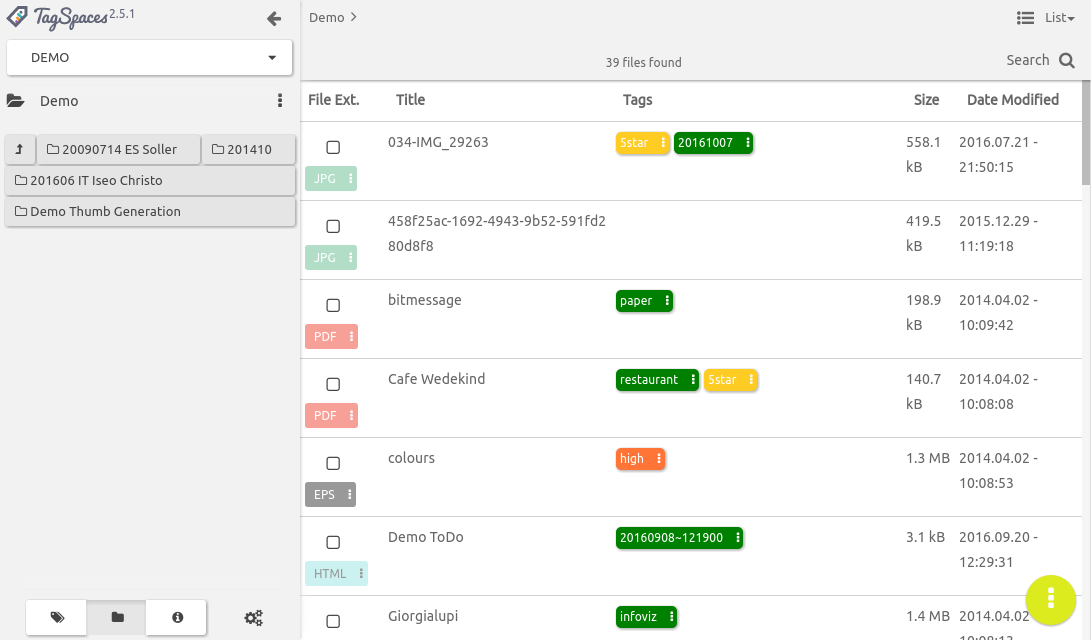
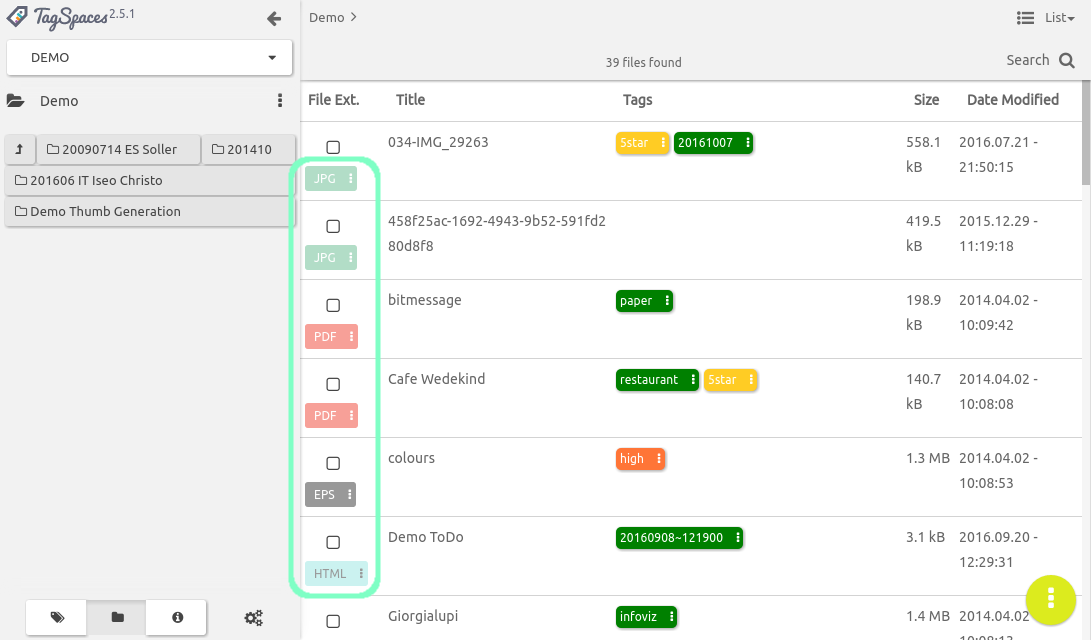
browsing-files.md ready for review

Changed region(s): [[0.2493, 0.2188, 0.374, 0.9375]]

diff --git a/styles/website.css b/styles/website.css
@@ -17,3 +17,15 @@ video, img {
     padding-right: 5px;
     margin-right: 5px;
 }
+
+.inline_image img{
+
+    box-shadow: none !important;
+    margin-left: 5px;
+    margin-right: 5px;
+    display:inline;
+    max-height: 40px;
+    margin-top:0;
+    margin-bottom:0;
+
+}

diff --git a/browsing-files.md b/browsing-files.md
@@ -1,6 +1,6 @@
 # Browsing Your Files
 
-When you navigate to a folder in your active location, the files contained in the selected folder will be displayed on the main file browsing area of the user interface. TagSpaces offers flexible, configurable views to display your files. These views are called **perspectives**.
+When you navigate to a folder in your active location, the files contained in the selected folder will be displayed on the main file browsing area of the user interface. TagSpaces offers flexible views to display your files. These views are called **perspectives**.
 
 ## Perspectives overview
 
@@ -9,91 +9,239 @@ Perspectives are not an integral part of TagSpaces, but exist as modular extensi
 * [List Perspective](extensions/perspectiveList.html) - Presenting your files as list, optimized for simple file management.
 
 
-* [Grid Perspective](extensions/perspectiveGrid.html) - Presenting your files as grid of thumbnails, if enabled. Unlike other perspectives, the grid can also display folders.
+* [Grid Perspective](extensions/perspectiveGrid.html) - Presenting your files as grid of thumbnails, if enabled. Unlike the List Perspective, the grid can also display folders.
 
 
-* [ImageSwiper Perspective](extensions/perspectiveImageSwiper.html) - A perspective optimized for browsing and viewing image files. Use this for your photo or image folders.
+* [ImageSwiper Perspective](extensions/perspectiveImageSwiper.html) - A perspective optimized for browsing and viewing image files. Best used with photo or image folders.
 
 
-* [FolderViz Perspective](extensions/perspectiveGraph.html) - This is experimental perspective which applies some information visualization concepts to presenting your folder and file structures.
+* [FolderViz Perspective](extensions/perspectiveGraph.html) - This is an experimental perspective which applies some information visualization concepts to presenting your folder and file structures.
 
+## Choosing a perspective
 
 ## List perspective
 
-The most common way of presenting files in a folder, is the list format. In the list perspective, all files are represented as rows of a list, just like ou woudl find in most file browsing applications.
+The most common way of presenting files in a folder is in a list format. In the **List Perspective** files are represented as rows of a list, similar to the default view of most file browsing applications.
 
-***IMAGE***
-
-Each row is broken down into columns, which give information about the files in quetson. The columns, from left to right are:
-
-* **File extension**  -  A color coded icon, representing the file type. (Scroll down to [Common features -> Color coded file extensions](#color-coded-file-extensions) to learn more about this feature.) Underneath the file extension icon, there is also a checkbox, which can be used to easily select one or more files. This also mean, that  `Ctrl or Shift + click` will **not** work for selecting multiple files.
+![](/media/list-perspective-2.png)
 
 
-* **Title** - The file's title is basically the filename sans the extension or any tag information. By default, TagSpaces stores tags as part of the filename. To learn more about how this is achieved, see the [*Tagging*](tagging.md) section.
+Each row of the list consists of columns, which give specific information about the files. The column names can be found in the header row, at the top of the list.
+
+![](/media/list-perspective-column-headers.png)
 
 
-* **Tags** - All the tags that are applied to the file will appear here, with the right background and font color. To learn more about tag colors, refer to the [*User interface -> Tag Library](userinterface.md#tag-library) section.
+The columns, from left to right are:
+
+* **File extension**  -  A color coded icon, representing the file type. Scroll down to [Common features -> Color coded file extensions](#color-coded-file-extensions) to learn more about this feature.
+
+    Underneath the file extension icon, there is also a checkbox, which can be used to easily select one or more files. This also means that `Ctrl or Shift + click` will **not** work for selecting multiple files in the current version of TagSpaces, although this functionality is planned for a future release.
 
 
-* **Size** - This is the file size, represented in a human readable format.
+* **Title** - The file's title is the filename without the extension or any tag information. By default, TagSpaces stores tags as part of the filename. To learn more about how this is achieved, see the [Tagging](tagging.md) section.
+
+
+* **Tags** - All the tags that are applied to the file will appear here, with the right background and font color. To learn more about tag colors, refer to the [User interface -> Tag Library](userinterface.md#tag-library) section.
+
+
+* **Size** - This is the file size in a human readable format.
 
 
 * **Date modified** - The time the file had been last modified, in a format of `YYYY.MM.DD-hh:mm:ss`
 
-> **Hint:** To change the list oreder, you can click the list column headers. Each header offers biderectional sorting, although there is currently no indicator of either the direction, or the active sorting mode.
+To change the list order, you can click the list column headers. For example if you want to sort the list alphabetically by name *(A-Z)*, click on the name. To change the direction of the sorting *(Z-A)*, click on the name again. Each header offers bidirectional sorting based on its column's contents.
 
-**IMAGE** (with list header closeup, and highlighted)
+>**Hint:** Although there is currently no indicator of either the direction, or the active sorting mode, this feature will be added in a future release of TagSpaces.
 
 
 ### List overflow menu options
 
 The **Floating Action Button** (FAB) at the bottom right corner, hides a contextual overflow menu applicable for the currently active perspective. The List perspective offers its own set of options, that will allow you to manage the list of files in certain ways.
 
-***IMAGE***
+![](/media/list-perspective-overflow.png)
 
-* **Toggle Select All Files** will mark every file on the list as selected.
-
-
-* **Add/Remove tags** will allow you to manage tags on selected files (only available when there is an active selection, works on multiple files simultaneously). To learn more about how this feature works, refer to the [Tagging -> Tagging using context menus](tagging.md/tagging-using-context-menus) section.
+* **Toggle Select All Files** will mark every file on the list as selected or unselected.
 
 
-* **Copy/move files** will allow you to copy or move one or more selected files (only available when there is an active selection, works on multiple files simultaneously). Selecting this option will present you wit the Move or Copy File(s) dialog. After specifying the target director, which can be anywhere on the filesystem, even outside your connected locations, you can choose to move or copy them by pressing the right button.
-
-***IMAGE***
-
-* **Delete files** will allow you to delete the files or files selected (only available when there is an active selection, works on multiple files simultaneously).
+* **Add/Remove tags**  will allow you to manage tags on selected files. (This options is only available when there is an active selection, and works on multiple files simultaneously.) To learn more about how tagging works, refer to the [Tagging -> Tagging using context menus](tagging.md/tagging-using-context-menus) section.
 
 
-* **Show subfolders content** - If you don1t care about folder structure, or do not know where in the hierarchy you would find a necessary file, you can turn this option on, to show every file from all subfolders, recursively, starting from your current directory. The list will display all files in order, without any indication of their actual locations.
+* **Copy/move files** will allow you to copy or move one or more selected files. (This option is only available when there is an active selection, and works on multiple files simultaneously.) Selecting this option will present you with the **Move or Copy File(s)** dialog. After specifying the target directory (which can be anywhere on the file system, even outside your connected locations), you can choose to move or copy the file(s) by pressing the corresponding button.
 
-* **Export to CSV** will create a **Comma Separated Variable** from all displayed files, be it from the current folder, or from the full folder hierarchy, and save it n a folder of your choice. The generated CSV contains `path,title,size, tag1, tag2,tag3,...`, where each new line represents a separate file.
+![](/media/copy-move-files-dialog.png)
 
+* **Delete files** will allow you to delete the file(s) selected. (This option is only available when there is an active selection, and works on multiple files simultaneously).
+
+    ><i class="profeature">pro</i> **Hint**: TagSpaces PRO offers an option to move deleted items to trash bin instead of deleting them permanently. To learn more about how to activate this feature, refer to the [Settings -> PRO features](settings.md/#pro-features) section.
+
+
+* **Show subfolders content** - If you don't care about folder structure, or do not know where in the hierarchy you would find a necessary file, you can turn this option on, to show every file from all subfolders recursively, starting from your current directory. The list will display all files in order, without any indication of their actual locations. This option will allow you to work with multiple files across a folder hierarchy at once.
+
+* **Export to CSV** will create a **Comma Separated Variable** from all displayed files, be it from the current folder, or from the full folder hierarchy, and save it n a folder of your choice. The generated CSV contains `path,title,size,tag1, tag2,tag3,...`, where each new line represents a separate file.
+
+* **About** will display information about the perspective extension in a pop-up window.
 
 ## Grid perspective
-tbd
 
-### Showing folders in the grid perspective
-This new feature gives shows in folders in the perspectives in addition for files. It enables a more intuitive way for navigating through folders, which is common the file managers build in the most modern operating systems. We implemented it as a pilot in the grid perspective, but the feature is not enabled by the default. It can be activated from the *More Operations* dialog of the extension. This dialog can be opened from a menu item with the same name located in the extensions main menu (the yellow button in the right bottom corner). See the screenshot bellow for details. We plan to integrate it also in the list perspective.
+An alternative arrangement, commonly found in file browsing applications is the grid. In TagSpaces the **Grid Perspective** offers a resiseable grid with thumbnail previews of certain file formats, for quick and effective browsing.
 
-![subfolder support in the grid perspective](media/subfolder-support-grid-perspective.png)
+![](/media/grid-perspective.png)
+
+Each card on the grid has three main components. The main body of the card shows a thumbnail preview of the file (if available), the bottom area displays the filename, the color coded icon in the top left corner represents the file extension, with a checkbox for selecting the file. Underneath the file extension icon, the applicable tags are displayed. In this view, there is no information given about file sizes, or last modified dates.
+
+![](/media/grid-perspective-card.png)
+
+The file extension, and the tags are dimmed on the cards by default, which might render them unreadable, when there is a file preview available. To improve readability, hover your mouse over the extension, or the tags to make them more opaque.
+
+![](/media/grid-perspective-card-2.png)
+
+### Grid overflow menu options
+
+Just like the List perspective, the grid also offers a specific set of options, found in the overflow menu, which can be accessed by pressing the FAB.
+
+![](/media/grid-overflow-menu.png)
+
+Some options (such as *Add/Remove Tags*, *Copy/Move Files*, *Delete Files*, *Show Subfolder Content*, and *About*) are identical to those of the List Perspective. The **Grid Perspective** specific specific options, which allow you to interact with the view are:
+
+* **Change card size** - by pressing the *plus* <span class="inline_image">![](/media/plus-button.png)</span> and *minus* <span class="inline_image">![](/media/minus-button.png)</span> buttons, you can change the size of the cards displayed on the grid.
 
 
-## ImageSwiper perspective
-tbd
+* **Sort Files** will present you with different options to sort files by.
+
+![](/media/grid-sort-files.png)
+
+* **Group files** allows for grouping based on time (either stamp tags, or last modified date accessed from the file itself), or by any defined tag groups. This will allow tag groups to serve as a basis for file grouping. (To learn more about tag groups, refer to [User Interface -> Tag Library](userinterfaces.md#tag-library) section.
+
+![](/media/grid-group-files.png)
+
+
+* **Show subfolders** will allow you to display folders as part of the grid, in addition to files. It enables a more intuitive way for navigating through folders, which is common in file managers found in most modern operating systems. It has been implemented as an experimental feature in the grid perspective, and as such, it is is not yet enabled by the default.
+
+    >**Hint:** The List perspective will also receive this functionality in the future.
+
+![subfolder support in the grid perspective](media/grid-show-subfolders.png)
+
 
 ## Common features
 
+Besides the very specific functionality and features List and Grid perspectives offer, there are some common characteristics that are uniform across the two.
+
 ### File context menu
 
+The file context menu can be accessed by right-clicking a file in either perspective. It will offer some common file management options.
+
+![](/media/file-context-menu.png)
+
+* **Open file** This will split the main area of TagSpaces into two, and open the file in the right pane. TagSpaces offers viewers for various file types, which can be opened inside the application. To learn more bout supported types, refer to the [Viewing Files](viewing-files.md) section.
+
+
+* **Open File Natively** you have the option to open files that are unsupported by TagSpaces,  in whatever application is associated with the file type in your operating system.
+
+* **Open Containing folder** will open the folder containing the selected file, in the operating system's default file manager application.
+
+The other common file management options *(Add/Remove tags, Copy/Move Files, Delete Files, Show Subfolder Content)* are identical to what you can find in the perspectives' overflow menu.
+
+### Drag to move file
+
+#### Drag to move within TagSpaces
+
+An alternative way to move files into another folder is to drag its color coded file extension icon onto a folder on the **Folder navigation** widget on the left panel. When the folder lights up with a yellowish hue, just release the icon, and the file will be immediately moved into that folder.
+
+> **Hint. You can access subfolders of any folder displayed in the hierarchy, by clicking the black folder icon next to its name. For more details, refer to the [User interface -> Folder Navigation](userinterface.md#foldder-navigation) section.
+
+![](/media/dragging-file-to-folder.png)
+
+#### Drag from outside, and drop into TagSpaces
+
+Besides dragging files from the **File Browser Area** to a subfolder, TagSpaces allows you to add files and folders to a listed **Location** by dragging and dropping it from the operating system, or any other file browsing application.
+
+To do this, just grab a file icon with your mouse, and drag it to TagSpaces' file browsing area.
+
+>**Hint:** This feature also works in the ImageSwiper perspective
+
+![](/media/drop-files-into-tagspaces.png)
 
 ### Color coded file extensions
-In the grid and list perspective there is support for color coded file extensions, allowing you a better visual recognition of the file type.  For the most common file extension we defined a custom color for extension buttons in the different perspectives. In the following screenshot, you can see the colored extensions in the list perspective.
+In the grid and list perspectives, color coded file extensions are supported, allowing for a better visual recognition of the file type. For the most common file extensions, custom colors have been defined, to be displayed on the extension buttons found on the file rows or cards.
 
 ![color codes file extensions in the list perspective](/media/color-coded-file-extensions-list.png)
 
-Of course you can switch this feature off. Just go to the general tab of the settings and disable the *Enable colored file type extensions* checkbox. In the future we are planing to make the colors for the extensions configurable.
+This feature can also be turned off. To disable it, go to the *General* tab of *Settings* and turn off the *Enable colored file type extensions* checkbox.
 
+> **Hint:** There are plans to make the colors for the extensions configurable in a future release.
+
+
+## ImageSwiper perspective
+
+The **ImageSwiper Perspecive** will turn any folder that contains images, into a picture gallery. This perspective only displays image files, and simply ignores all other files in the folder, therefore this perspective is only suitable for folders that contain mainly images.
+
+> **Hint:** For now, the thumbnail size of the images displayed in the gallery is fixed.
+
+![](/media/image-swiper-perspective.png)
+
+### ImageSwiper overflow menu
+
+The overflow menu offers two options:
+
+* **Change gallery background** will allow you to choose between *white*, *black* and *sepia* colored background for the image gallery.
+
+
+* **About** will display information about the extension.
+
+### Displaying images
+
+Whereas image files opened in the List or Grid perspectives will open the file in the right panel (learn more about viewing files in the [Viewing Files](viewing-files.md) section), the **ImageSwiper Perspective** will open images in a classic light-table style preview, that takes up all of the applications interface.
+
+![](/media/image-swiper-preview.png)
+
+Upon hovering the mouse over the image, various controls appear. In the upper-right corner, you will find a position indicator, stating the number of the image, out of a total number of images found in the folder (**1**). To the left and right of the image are navigation controls to swipe left to navigate to the previous image (**2**), and right, to navigate to the next image (**3**). In the upper-right corner, you will find a button to zoom in or out (**4**), display the image preview in full-screen mode (**5**), and close the preview (**6**) to return to the gallery.
+
+![](/media/image-swiper-controls.png)
+
+> **Hint:** As its name indicates, the image swiper fully supports (left or right) swipe gestures for navigation in the preview mode, on devices that allow for this. You can also drag the images with the mouse pointer, to imitate the swipe gesture on devices that are not touch enabled.
 
 ### Generating live thumbnails for photos
 
 In the Grid and ImageSwiper perspectives TagSpaces generates thumbnails for JPG and PNG files on the fly. These small image previews are not persisted on your system, so every time you open a folder they will be regenerated. TagSpaces generates thumbnails only for image files which are currently visible in the application.
+
+
+## FolderViz Perspective
+
+The **FolderViz Perspective** is a collection of experimental views hat apply some information visualisation concepts to representing your files and folders. While the primary aim of FolderViz perspective is to showcase TagSpaces' capabilities to developers, some of the options might offer some useful features to the end users.
+
+**Note: FolderViz Perspective is an experimental feature, which can be *very* memory intensive on large fodler structures, and can easily lock up one's computer. It is disabled by default on Android and Webdav, and will be disabled by default in all variants of the next version of TagSpaces.**
+
+FolderViz currently offers five types of views, which can be accessed from the FAB menu:
+
+
+### Mindap View
+
+**MindMap** will display all folders and subfolders contained within the current directory, in an expandable tree-node format. There are plans to extend this view in the future with an inverted graph of tags so you can navigate your tagged files, with the help of the tag group three instead of the folder tree, and drag and drop files from one branch of tag tree to some other branch, which will automatically re-tag them.
+
+![](/media/folderviz-mindmap.png)
+
+### Tree View
+
+**Tree** will display a fully expanded tree, similar to **MindMap**, only not interactive. It can be useful to visualize folder hierarchy, but this view can have performance issues with large directory structures.
+
+![](/media/folderviz-tree-view.png)
+
+
+### TreeMap View
+
+**TreeMap** offers a representation of all files and folders, where the size of the squares correspond to filesizes, relative to the root and each other, while the structure of the suares represents folder hierarchy.
+
+![](/media/folderviz-treemap.png)
+
+
+### TreeMap-Navi View
+
+**TreeMap Navi** is just liek Treemap, but without the hierarchy. here the squares fully use up the available User Interface, allowing for a better visual representation of relative file sizes. This can be useful for finding large files or folders.
+
+![](/media/folderviz-treemap-navi.png)
+
+### Bilevel Partition
+
+**Bilevel Partition** is the most experimental and least functional of all views, basically a test to push the capabilities of folder and file visualisation. While it might produce some interesting looking results, it will most certainly be removed from a future release of TagSpaces.
+
+![](/media/bilevel-partition.png)

diff --git a/settings.md b/settings.md
@@ -1,3 +1,5 @@
 # Settings
 
 *ToDo: All about settigns*
+
+## Pro features
